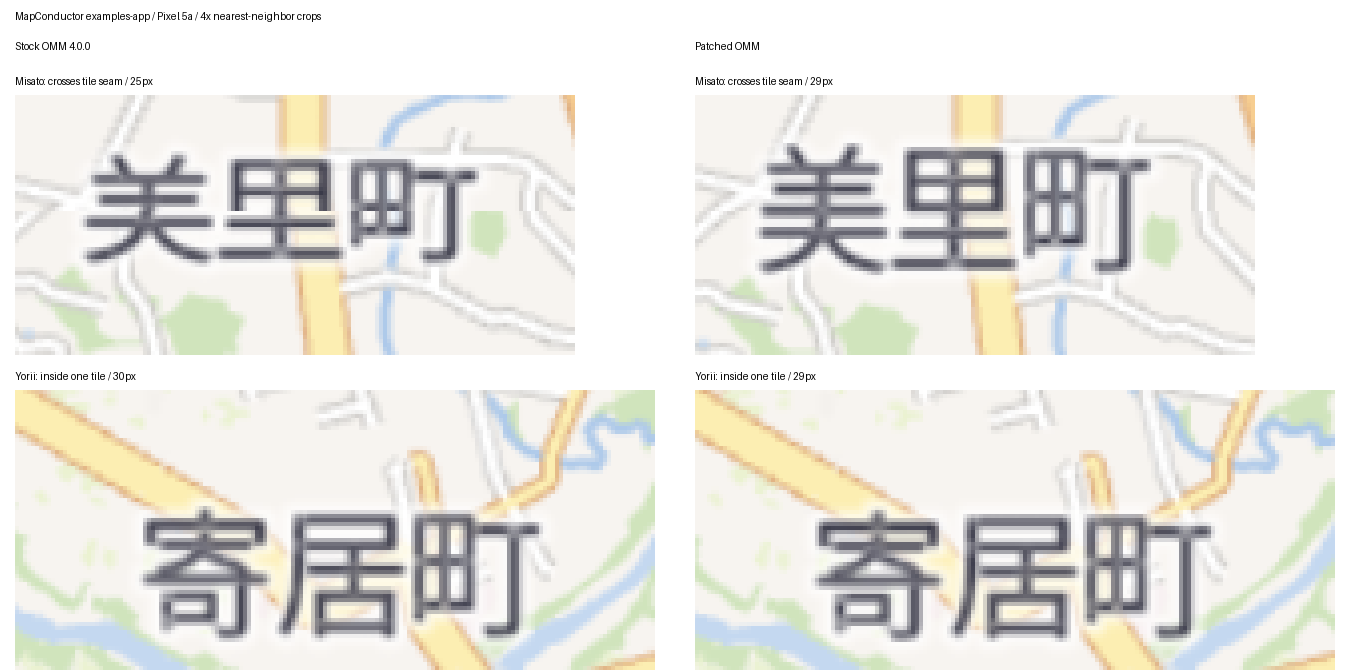
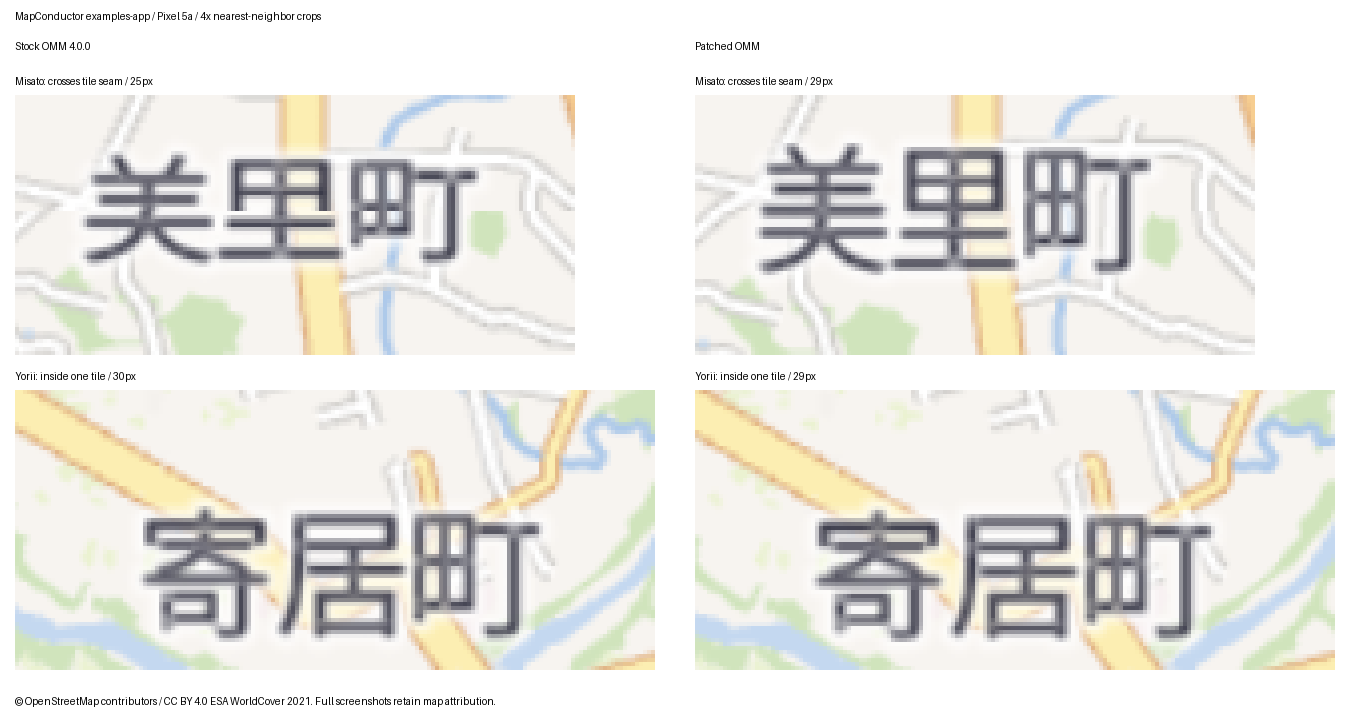
Document real-map capture conditions and label measurements

diff --git a/README.md b/README.md
@@ -119,3 +119,45 @@ adb exec-out screencap -p > device-screen.png
 
 The source bitmap is generated on the test device, so glyph rasterization is
 consistent within each run even if a different device has different fonts.
+
+## Additional real-map screenshots (MapConductor examples-app)
+
+The independent OMM/Canvas reproduction above isolates the cause. The following
+supplement shows how the same issue appears on a geographic map in
+MapConductor's Android examples-app.
+
+![MapConductor map before/after](evidence/mapconductor/map-comparison.png)
+
+The red box marks **美里町 (Misato)** crossing the boundary between label tiles
+`11/1815/802` and `11/1815/803`; the blue box marks **寄居町 (Yorii)** inside a
+tile. Both labels use the same style text size.
+
+![Label crops at 4x](evidence/mapconductor/label-comparison.png)
+
+| Version | 美里町 / crossing seam | 寄居町 / inside tile |
+| --- | ---: | ---: |
+| Stock OMM 4.0.0 | 25px | 30px |
+| Patched OMM | 29px | 29px |
+
+These fresh Pixel 5a / Android 14 captures were made on 2026-10-07 using
+`MapConductor/android-sdk` commit `fe089261`, provider Open Mobile Maps,
+**As basemap**, Auto tile size, opacity 1, bearing/tilt 0. Camera center:
+latitude **36.153**, longitude **139.189**, application zoom **12**. The auto
+raster grid uses logical 512dp tiles with 1024px label images at this location.
+
+For deterministic startup, only the example page's initial camera and initial
+As-basemap toggle were temporarily changed for the capture build; the source
+was restored afterward. Both comparison APKs use that same build. Comparing
+all APK entries (apart from signing metadata) finds exactly one changed entry:
+`lib/arm64-v8a/libmapscore.so`. The patched library is the same upstream-main
+build used for the standalone test. MapConductor code, vector renderer, PNG
+cache, map data and camera settings are identical across the pair.
+
+[Original before](evidence/mapconductor/before.png) and
+[original after](evidence/mapconductor/after.png) are unannotated screenshots.
+The overview adds colored boxes and scales the whole screenshots to half size;
+label crops use 4x nearest-neighbor enlargement to expose the original pixels.
+[Measurements](evidence/mapconductor/measurements.json) record crop coordinates
+and text bounds using all RGB components below 125. These pixel bounds depend
+on sampling and are not font size specifications. Map attribution is retained
+in the full captures.
